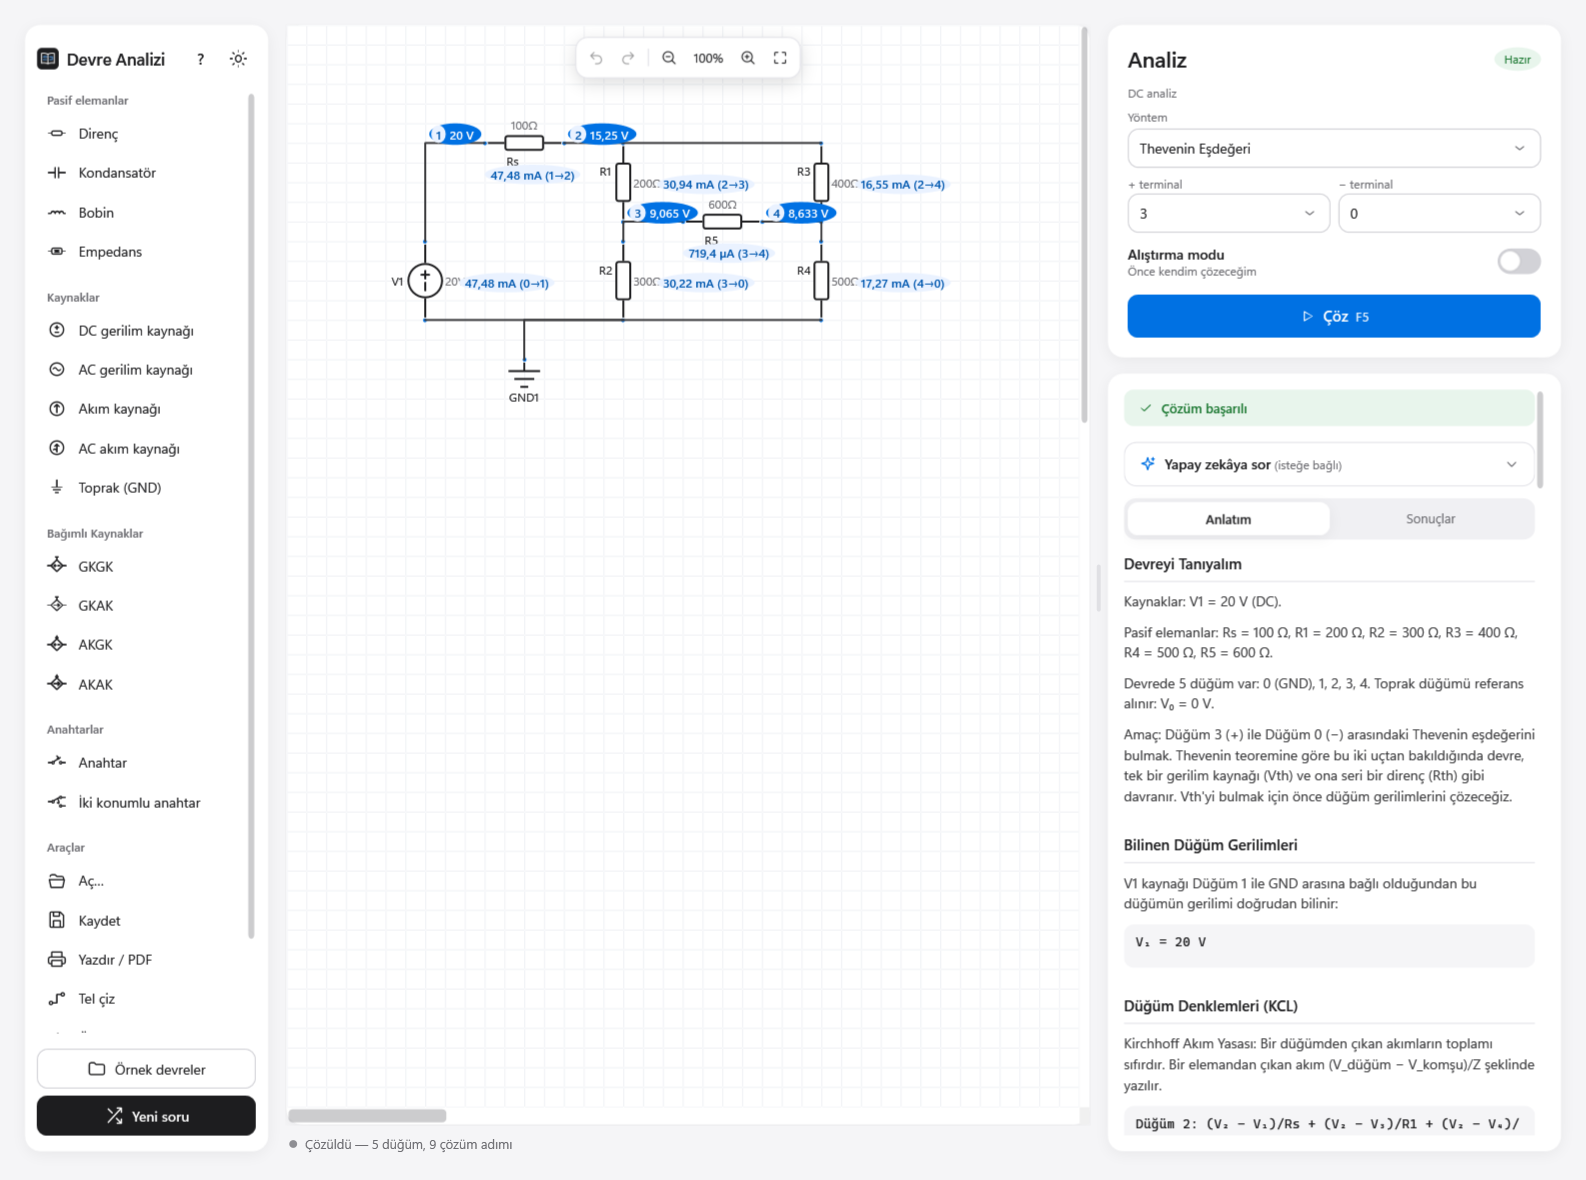
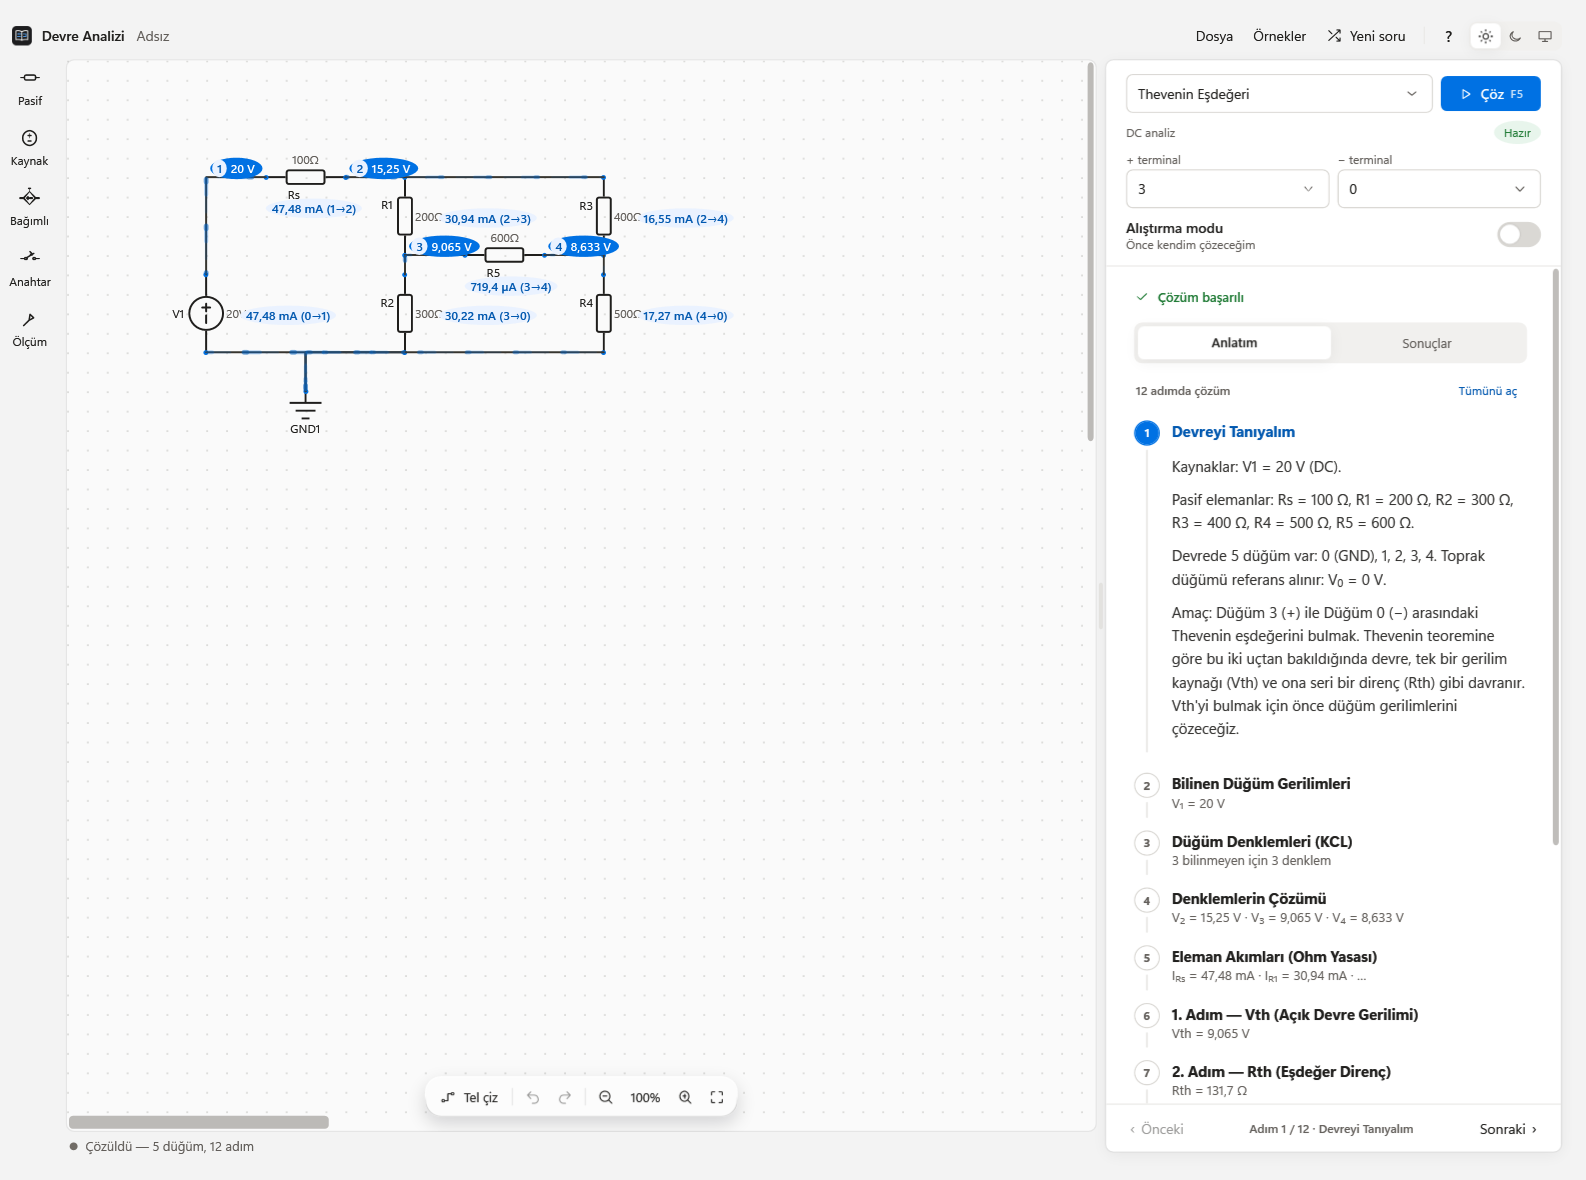
Refresh the README screenshots for the v2.0 design
New shots of every view in the new layout, plus a flow light and glass
card highlight.

diff --git a/README.md b/README.md
@@ -60,6 +60,9 @@ DC ve AC (fazör) devrelerin hepsinde çalışır; AC değerleri [etkin ya da te
 
 <table>
   <tr>
+    <td colspan="2"><img src="docs/ekran/12-akim-isigi.png" alt="Akım ışığı: seçilen direncin kolu parlıyor, yanında değerlerini gösteren cam kart"><br><sub><b>Akım ışığı</b> — çözümden sonra tellerde akımın gerçek yönünde ışık akar; bir elemana tıklayınca kolu parlar ve yanında akımını, gerilimini, gücünü ve düğümdeki akım dengesini gösteren bir kart açılır. AC devrelerde ışık yavaşlatılmış olarak gidip gelir, fazı görünür.</sub></td>
+  </tr>
+  <tr>
     <td width="50%"><img src="docs/ekran/02-alistirma.png" alt="Alıştırma modu: cevaplar kontrol ediliyor"><br><sub><b>Alıştırma modu</b> — önce siz çözün. Yanlışsa <i>neden</i> yanlış olduğunu söyler: işaret hatası, birim öneki, tepe/etkin değer karışıklığı…</sub></td>
     <td width="50%"><img src="docs/ekran/07-delta-y.png" alt="Wheatstone köprüsü: Thevenin eşdeğeri ve Δ–Y dönüşümü"><br><sub><b>Δ–Y dönüşümü</b> — Wheatstone köprüsünün Thevenin eşdeğeri, adım adım.</sub></td>
   </tr>
@@ -73,7 +76,7 @@ DC ve AC (fazör) devrelerin hepsinde çalışır; AC değerleri [etkin ya da te
   </tr>
 </table>
 
-**Ayrıca:** sürükle-bırak çizim · bağımlı kaynaklar (GKGK, GKAK, AKGK, AKAK) · anahtarlar (t = 0) · ölçüm probu · hazır örnek devreler · 4 haneli **soru kodları** (öğretmen kodu paylaşır, bütün sınıf aynı soruyu açar) · kaydet/aç (`.devre`) · geri al/yinele · yazdır/PDF · ondalık virgül (`4,7k` de `4.7k` de yazılabilir) · açık ve koyu tema.
+**Ayrıca:** sürükle-bırak çizim · bağımlı kaynaklar (GKGK, GKAK, AKGK, AKAK) · anahtarlar (t = 0) · ölçüm probu · hazır örnek devreler · 4 haneli **soru kodları** (öğretmen kodu paylaşır, bütün sınıf aynı soruyu açar) · kaydet/aç (`.devre`) · geri al/yinele · yazdır/PDF · ondalık virgül (`4,7k` de `4.7k` de yazılabilir) · fare tekerleğiyle yakınlaştırma · adım adım açılan çözüm zinciri · Windows 11 görünümü, açık ve koyu tema.
 
 ## Kurulum
 
